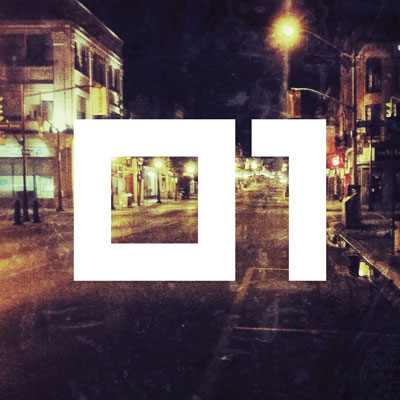
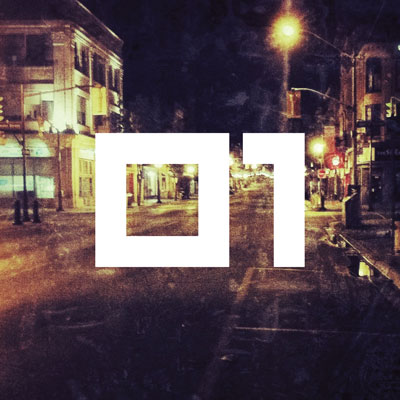
Event branding

Changed region(s): [[0.18, 0.3, 0.84, 0.72], [0.27, 0.39, 0.51, 0.63], [0.48, 0.45, 0.51, 0.48]]

diff --git a/_includes/block-media-events.html b/_includes/block-media-events.html
@@ -14,17 +14,44 @@
                     <!-- Section Title -->
 
                 </div>
+
+                <!-- START 02 -->
+                <div class="jx-grid-item">
+                    <div class="jx-image jx-image-wrapper"><img width="400" src="{{ "/content/img/event/02/PTBOGameJam02-Light.jpg" | prepend: site.baseurl }}" alt="PTBO Game Jam 02 Logo (Transparent)" hdpi="true"/>
+                      <a href="{{ "/files/events/02/PTBOGameJam02-Light.png" | prepend: site.baseurl }}" title="PTBO Game Jam 02 Logo (Transparent)">
+                        <div class="jx-image-overlayer"></div>
+                        <div class="jx-image-hover"><i class="icon-link"></i></div>
+                      </a>
+                    </div>
+                    <div class="logo-spacer"></div>
+                    <div class="jx-image jx-image-wrapper"><img width="400" src="{{ "/content/img/event/02/PTBOGameJam02-Dark.jpg" | prepend: site.baseurl }}" alt="PTBO Game Jam 02 Logo (Transparent)" hdpi="true"/>
+                      <a href="{{ "/files/events/02/PTBOGameJam02-Dark.png" | prepend: site.baseurl }}" title="PTBO Game Jam 02 Logo (Transparent)">
+                        <div class="jx-image-overlayer"></div>
+                        <div class="jx-image-hover"><i class="icon-link"></i></div>
+                      </a>
+                    </div>
+                </div>
+                <div class="jx-grid-item">
+                    <div class="jx-image jx-image-wrapper"><img width="400" src="{{ "/content/img/event/02/PTBOGameJam02-Banner.jpg" | prepend: site.baseurl }}" alt="02 Banner" hdpi="true"/>
+                      <a href="{{ "/files/events/02/PTBOGameJam02-Banner.png" | prepend: site.baseurl }}" title="02 Banner">
+                        <div class="jx-image-overlayer"></div>
+                        <div class="jx-image-hover"><i class="icon-link"></i></div>
+                      </a>
+                    </div>
+                </div>
+                <!-- END 02 -->
+
                 <!-- START 01 -->
                 <div class="jx-grid-item">
                     <div class="jx-image jx-image-wrapper"><img width="400" src="{{ "/content/img/event/01/PTBOGameJam01-Light.jpg" | prepend: site.baseurl }}" alt="PTBO Game Jam 01 Logo (Transparent)" hdpi="true"/>
-                      <a href="{{ "/files/events/01/PTBOGameJam01-Light.png" | prepend: site.baseurl }}" title="TBO Game Jam 01 Logo (Transparent)">
+                      <a href="{{ "/files/events/01/PTBOGameJam01-Light.png" | prepend: site.baseurl }}" title="PTBO Game Jam 01 Logo (Transparent)">
                         <div class="jx-image-overlayer"></div>
                         <div class="jx-image-hover"><i class="icon-link"></i></div>
                       </a>
                     </div>
                     <div class="logo-spacer"></div>
                     <div class="jx-image jx-image-wrapper"><img width="400" src="{{ "/content/img/event/01/PTBOGameJam01-Dark.jpg" | prepend: site.baseurl }}" alt="PTBO Game Jam 01 Logo (Transparent)" hdpi="true"/>
-                      <a href="{{ "/files/events/01/PTBOGameJam01-Dark.png" | prepend: site.baseurl }}" title="TBO Game Jam 01 Logo (Transparent)">
+                      <a href="{{ "/files/events/01/PTBOGameJam01-Dark.png" | prepend: site.baseurl }}" title="PTBO Game Jam 01 Logo (Transparent)">
                         <div class="jx-image-overlayer"></div>
                         <div class="jx-image-hover"><i class="icon-link"></i></div>
                       </a>
@@ -33,6 +60,14 @@
                 <div class="jx-grid-item">
                     <div class="jx-image jx-image-wrapper"><img width="400" src="{{ "/content/img/event/01/PTBOGameJam01-Banner.jpg" | prepend: site.baseurl }}" alt="01 Banner" hdpi="true"/>
                       <a href="{{ "/files/events/01/PTBOGameJam01-Banner.png" | prepend: site.baseurl }}" title="01 Banner">
+                        <div class="jx-image-overlayer"></div>
+                        <div class="jx-image-hover"><i class="icon-link"></i></div>
+                      </a>
+                    </div>
+                </div>
+                <div class="jx-grid-item">
+                    <div class="jx-image jx-image-wrapper"><img width="400" src="{{ "/content/img/event/01/PTBOGameJam01-Background.jpg" | prepend: site.baseurl }}" alt="Original Branding" hdpi="true"/>
+                      <a href="{{ "/files/events/01/PTBOGameJam01-Background.jpg" | prepend: site.baseurl }}" title="Original Branding">
                         <div class="jx-image-overlayer"></div>
                         <div class="jx-image-hover"><i class="icon-link"></i></div>
                       </a>
